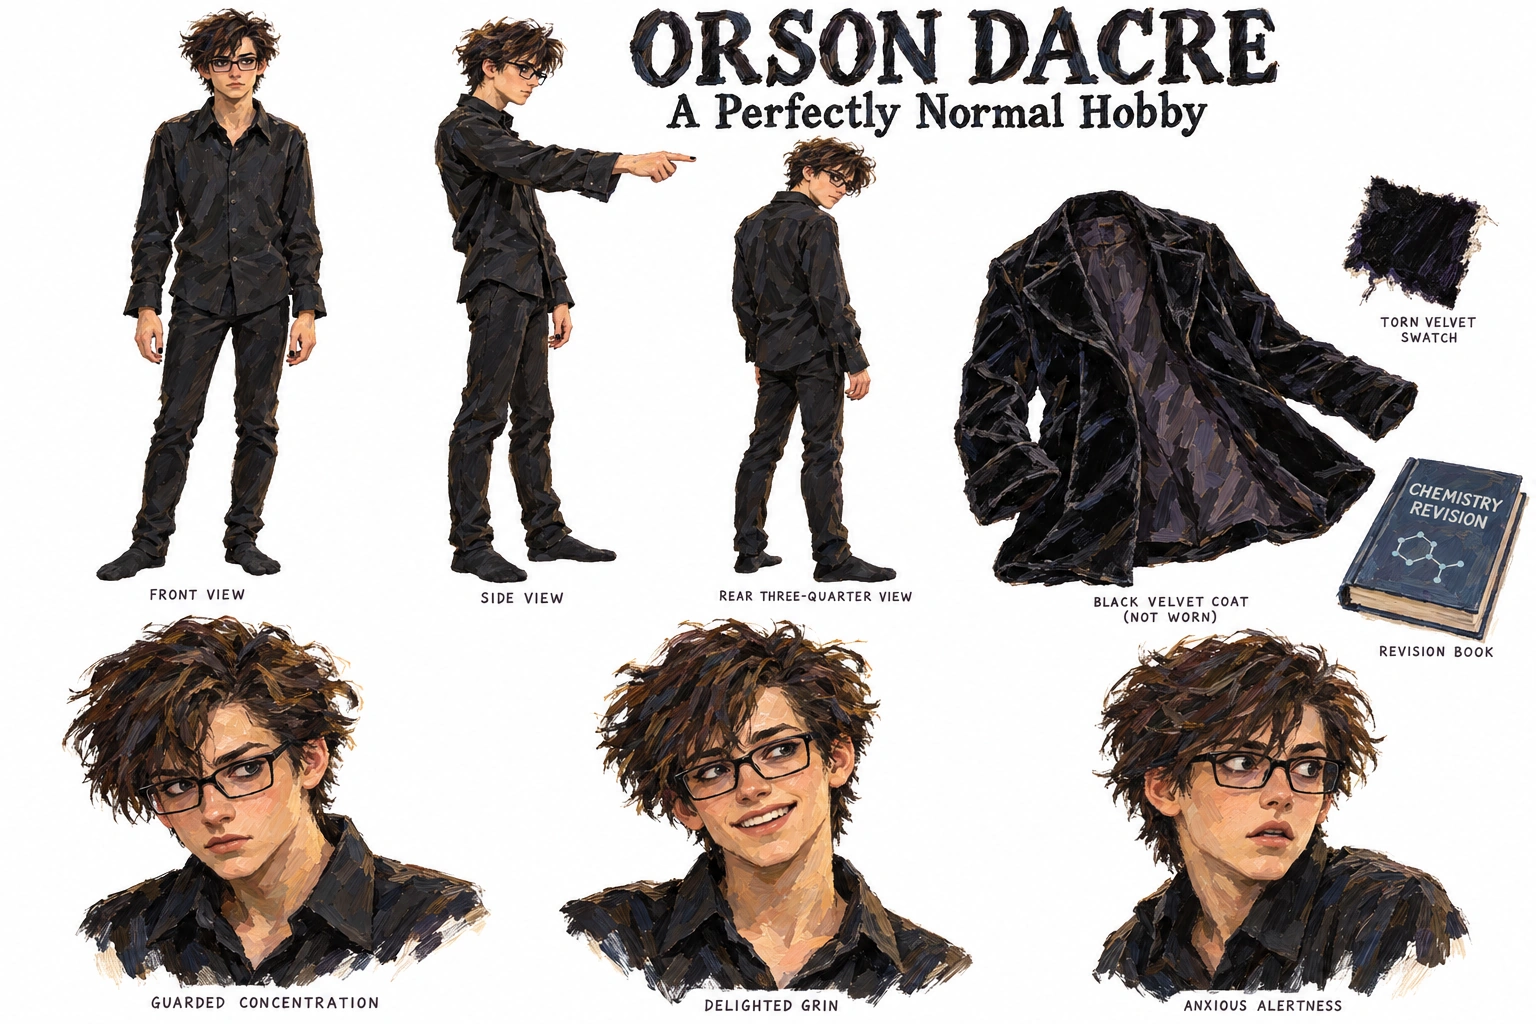
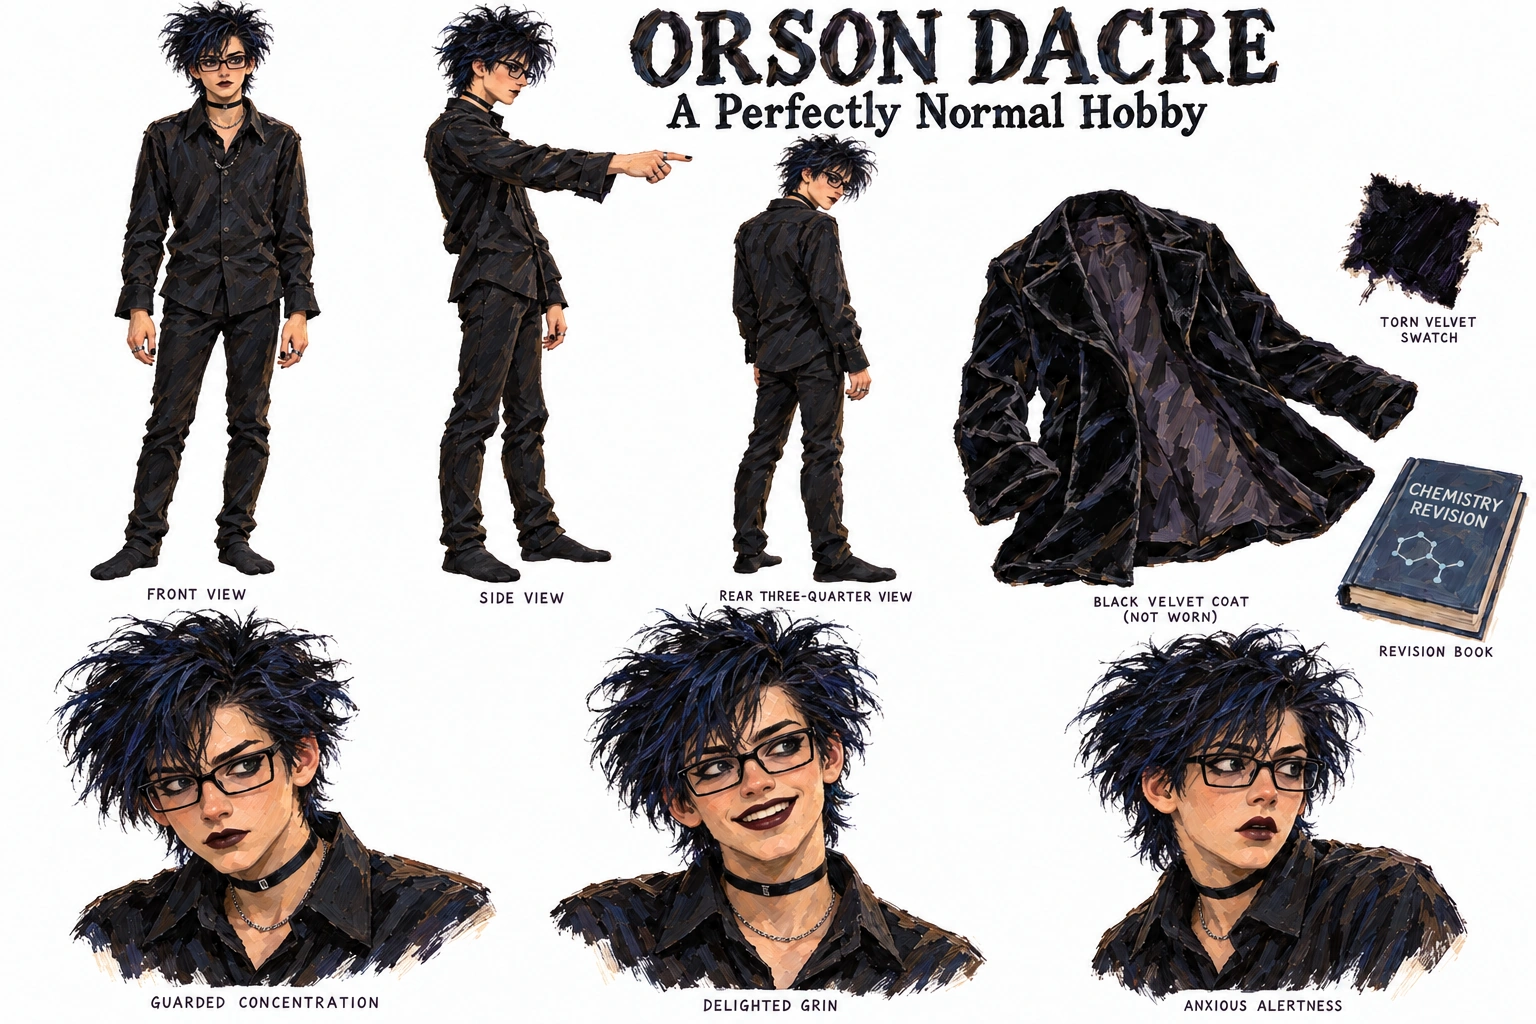
Correct Orsons goth character design and cover

diff --git a/stories/a-perfectly-normal-hobby/notes.md b/stories/a-perfectly-normal-hobby/notes.md
@@ -19,3 +19,7 @@ Final round-robin: the fresh readers received one another's actual findings, the
 Art and final handoff: built-in imagegen produced separate white-background, multi-view sheets for Orson, Mum, Dad, the witchlight and shadehound, plus distinct bedroom and woodland paintings. Both artists and coordinator inspected the saved pixels before the cover used the five relevant accepted Orson/moth/hound/bedroom/wood references. The woodland's initial unsupported branch shapes were corrected to a rooted sapling; only the accepted correction remains in the package. The final 864×1536 JPEG preserves Orson's glasses, plain black clothes and nails, the blue-white crescent-winged moth, the antlered canine beyond the seam, and the bedroom geography; its exact title appears once. Unspecified family appearances are illustrative choices, not added canon. Prose and selected cover were then rated General for mild, non-graphic fantasy peril. Final coordinator reading checked names, living magical agency, ordinary parental knowledge, routes, clothing, glasses and the dinner clock; the standalone magic-active modernity imports no shared identity or new universe rule. Existing media packaging tests passed. The story remains canon: false and is ready for the user's draft-PR review.
 
 2026-10-19, user correction: the supplied cover made the unmet visual promise plain. The coordinator had accepted a generic brown-haired boy in black and barely visible eyeliner as sufficient goth representation. [FIT's primary archive](https://blog.fitnyc.edu/materialmode/2026/04/30/dark-subculture-in-the-fit-archive/) places goth's distinctive styles in a music scene and community; its [museum exhibition](https://www.fitnyc.edu/museum/exhibitions/gothic-dark-glamour.php) also records varied subcultural looks. The original request and later words are preserved in prompt.md, with the supplied problem image under art/references/. The writer added only two sentences grounding Orson in an all-ages goth night and ongoing song exchanges with friends. An independent reader reread the whole current story: the bass makes belonging specific, “never asked who he was dressed as” connects to the parents' affectionate display, and no temporal conflict, new subplot, or implication that goth necessarily means witchcraft appeared. Visual repair chooses a clearly legible traditional goth style for this character rather than a universal goth uniform; the same face, warm skin, age, glasses and capacity for delight remain.
+
+Keeper's independent update on the later user words and supplied original alone, before seeing the proposed repair: “Goth is a substantive part of the requested teenager's identity,” and the old cover reads “more readily as a bookish teenager wearing black.” It infers dissatisfaction with a generic substitution, while noting that no substyle was specified and smile, glasses or brown hair are not inherently contradictions. The strongest immediate target appears visual; the user has not asked to change the plot or affectionate tone. This confirms a focused correction rather than a new story.
+
+Correction completed: the coordinator inspected and accepted the revised sheet before the cover used it as the authoritative design input, with the supplied original as edit target. Blue-black backcombed hair, visible black kohl, wine-black lip colour, a narrow black choker and modest silver accessories carry one coherent goth style across every study and the cover. Actual saved-pixel inspection confirmed the same youthful face, warm skin, glasses and grin, opaque cuffs, coherent hand/moth, creature and location continuity, and unchanged readable title once. The keeper inspected the updated sheet and local prose, finding the music/community grounding and personal style answer the user's words without making goth a costume or changing tone. The finished revised prose and cover were reassessed together: General and its existing content notes remain accurate. The plot is unchanged; only the two local prose sentences and Orson's depiction changed.

diff --git a/stories/a-perfectly-normal-hobby/prompt.md b/stories/a-perfectly-normal-hobby/prompt.md
@@ -4,7 +4,7 @@
 
 # Production direction
 
-The user supplied no audience, intensity, or additional content direction. General is the starting target, with the finished prose and cover to be rated after completion. No reference images were supplied.
+The initial request supplied no audience, intensity, or additional content direction. General is the starting target, with the finished prose and cover to be rated after completion. No reference images accompanied the initial request.
 
 Explicit requirements: a male goth teenager beginning to study witchcraft; concealment from his parents; their complete obliviousness. Humor, real supernatural effects, and any particular ending are editorial interpretations, not additional user requirements.
 
